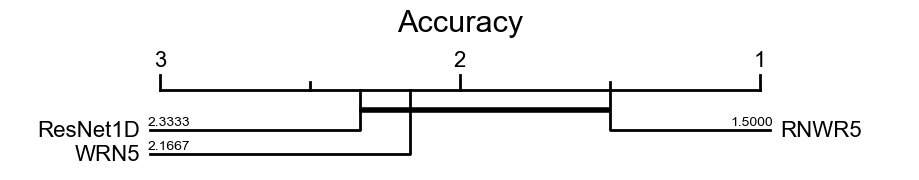
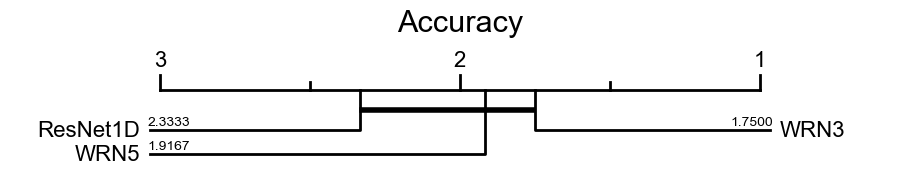
Update image, add mean calculation for DWSR

diff --git a/mean-DWSR.py b/mean-DWSR.py
@@ -1,0 +1,127 @@
+import numpy as np
+import seaborn as sns
+wsr = np.array([
+80.67,
+71,
+70.14,
+65.18,
+87,
+91.73,
+72.19,
+96.74,
+62.46,
+44.52,
+54.61,
+])
+
+mwsr = np.array([
+86.67,
+69.5,
+65.4,
+61.29,
+86.3,
+93,
+69.52,
+96.16,
+60.33,
+42.47,
+53.31,
+])
+
+dwsr1 = np.array([
+68.67,
+75,
+70.65,
+64.53,
+85.1,
+90.53,
+68.48,
+96.08,
+66.07,
+52.05,
+54.35,
+])
+dmwsr1 = np.array([
+83,
+73.5,
+67.34,
+63.02,
+85,
+89,
+63.52,
+96.32,
+63.77,
+54.25,
+53.96,
+])
+dwsr2 = np.array([
+78.33,
+68.5,
+71.44,
+62.45,
+90.2,
+95.47,
+68.57,
+95.88,
+71.97,
+63.56,
+54.48,
+])
+
+dmwsr2 = np.array([
+86.67,
+73,
+70.36,
+61.08,
+89.8,
+93.53,
+68,
+96.29,
+70.66,
+58.63,
+54.48,
+])
+
+dwsr3 = np.array([
+77,
+63.5,
+70,
+64.82,
+90.1,
+95.13,
+68.76,
+95.88,
+73.44,
+61.1,
+54.48,
+])
+
+dmwsr3 = np.array([
+79,
+67,
+68.42,
+61.94,
+90.9,
+92.67,
+67.81,
+95.76,
+72.3,
+62.47,
+54.03,
+])
+
+
+
+col = []
+for j in [wsr,mwsr, dwsr1, dmwsr1, dwsr2, dmwsr2, dwsr3, dmwsr3]:
+    row = []
+    for i in [wsr,mwsr, dwsr1, dmwsr1, dwsr2, dmwsr2, dwsr3, dmwsr3]:
+        row.append(100*2/11*sum((j - i)/(j + i)))
+    col.append(row)
+labels = ["WSR", "MWSR", "DWSR1", "DMWSR1", "DWSR2", "DMWSR2", "DWSR3", "DMWSR3"]
+sns.set(font_scale=0.6)
+plot = sns.heatmap(col, annot=True, xticklabels =labels, yticklabels= labels)
+plot.xaxis.tick_top()
+plot.xaxis.set_label_position('top')
+fig = plot.get_figure()
+fig.savefig("dwsr-mean.png")

diff --git a/cd-diagram-master/main.py b/cd-diagram-master/main.py
@@ -298,7 +298,7 @@ def draw_cd_diagram(df_perf=None, alpha=0.05, title=None, labels=False):
         }
     if title:
         plt.title(title,fontdict=font, y=0.9, x=0.5)
-    plt.savefig('WRNER33-Wilcoxon.png',bbox_inches='tight')
+    plt.savefig('WFCN-Wilcoxon.png',bbox_inches='tight')
 
 def wilcoxon_holm(alpha=0.05, df_perf=None):
     """
@@ -378,6 +378,6 @@ def wilcoxon_holm(alpha=0.05, df_perf=None):
     # return the p-values and the average ranks
     return p_values, average_ranks, max_nb_datasets
 
-df_perf = pd.read_csv('resnet-test.csv',index_col=False)
+df_perf = pd.read_csv('fcn-test.csv',index_col=False)
 
 draw_cd_diagram(df_perf=df_perf, title='Accuracy', labels=True)
